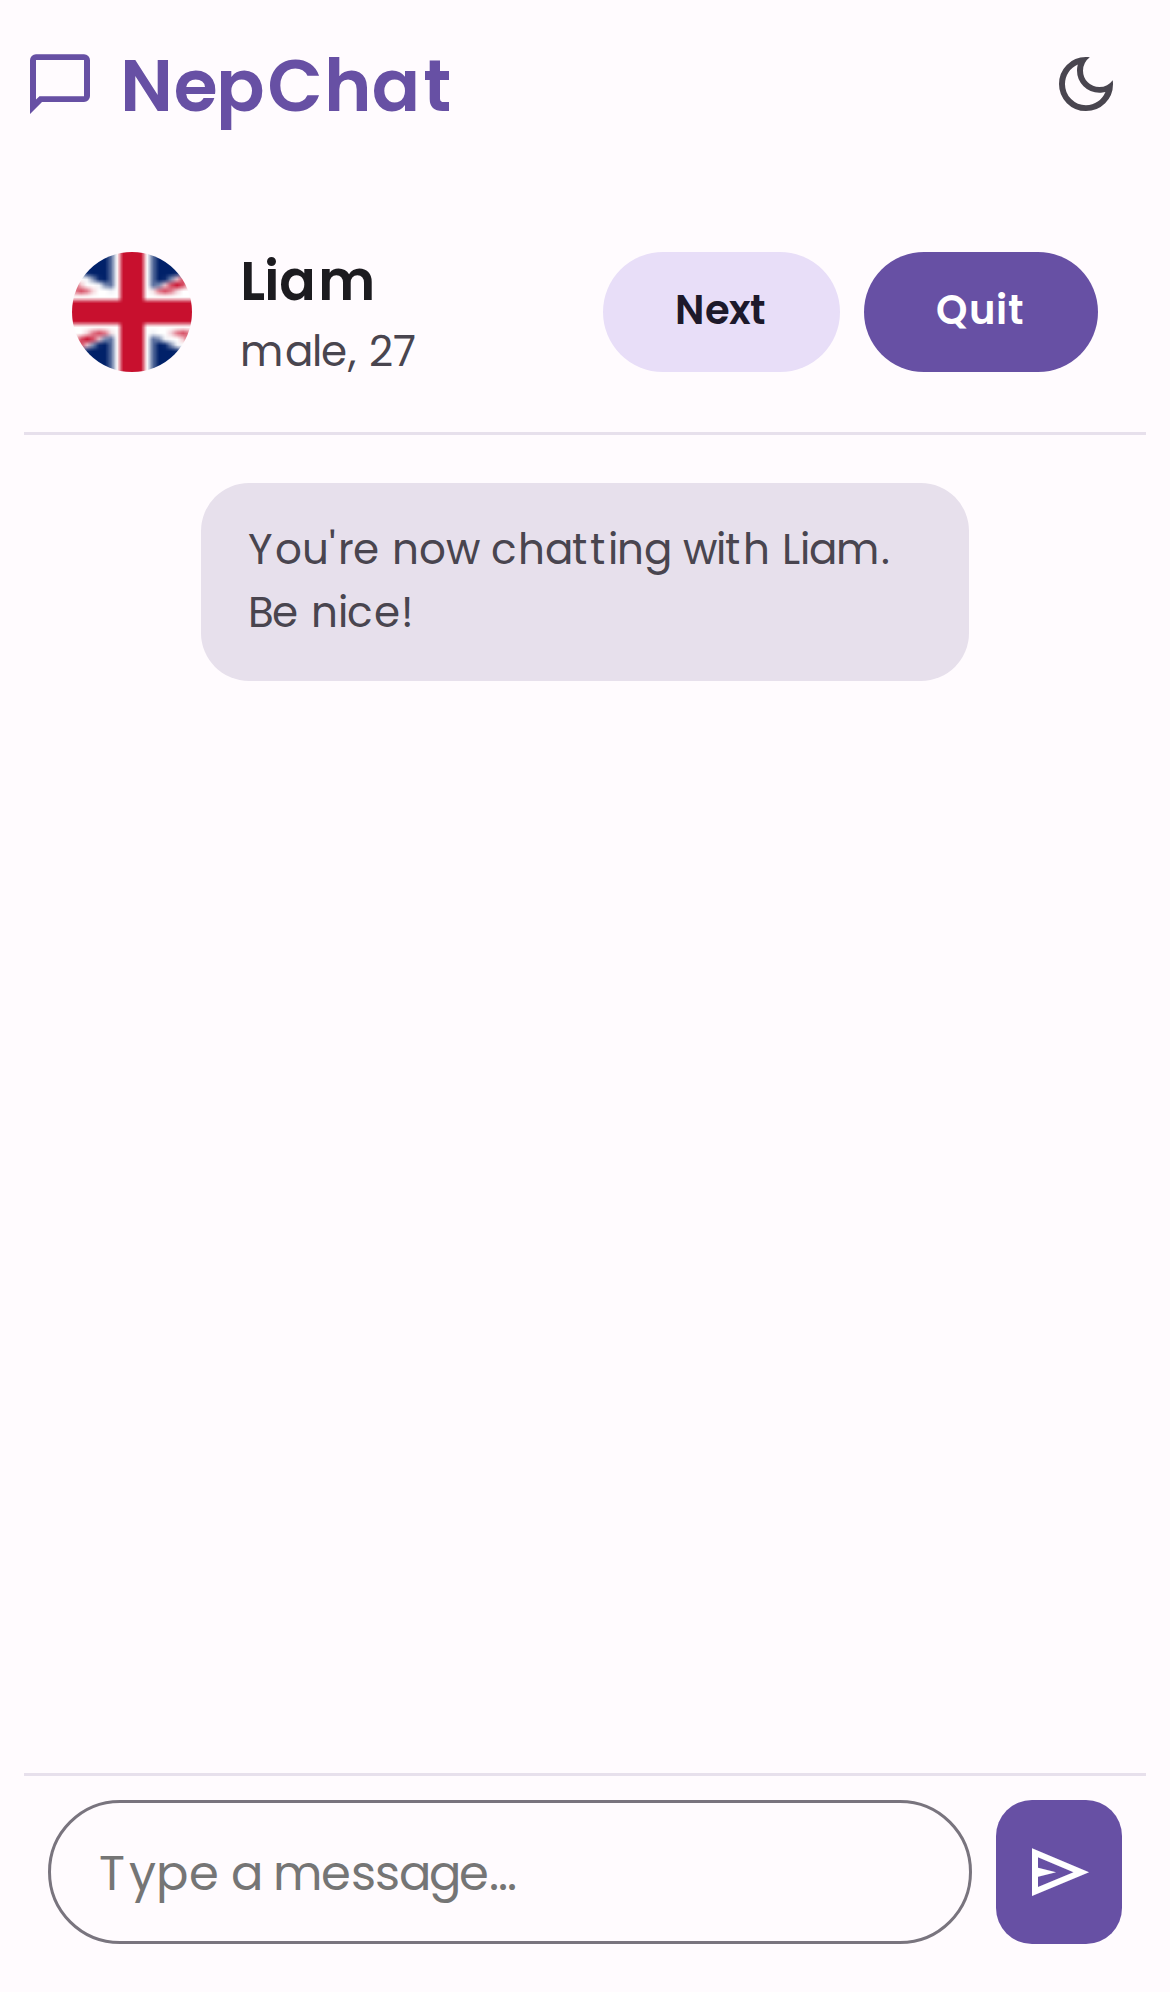
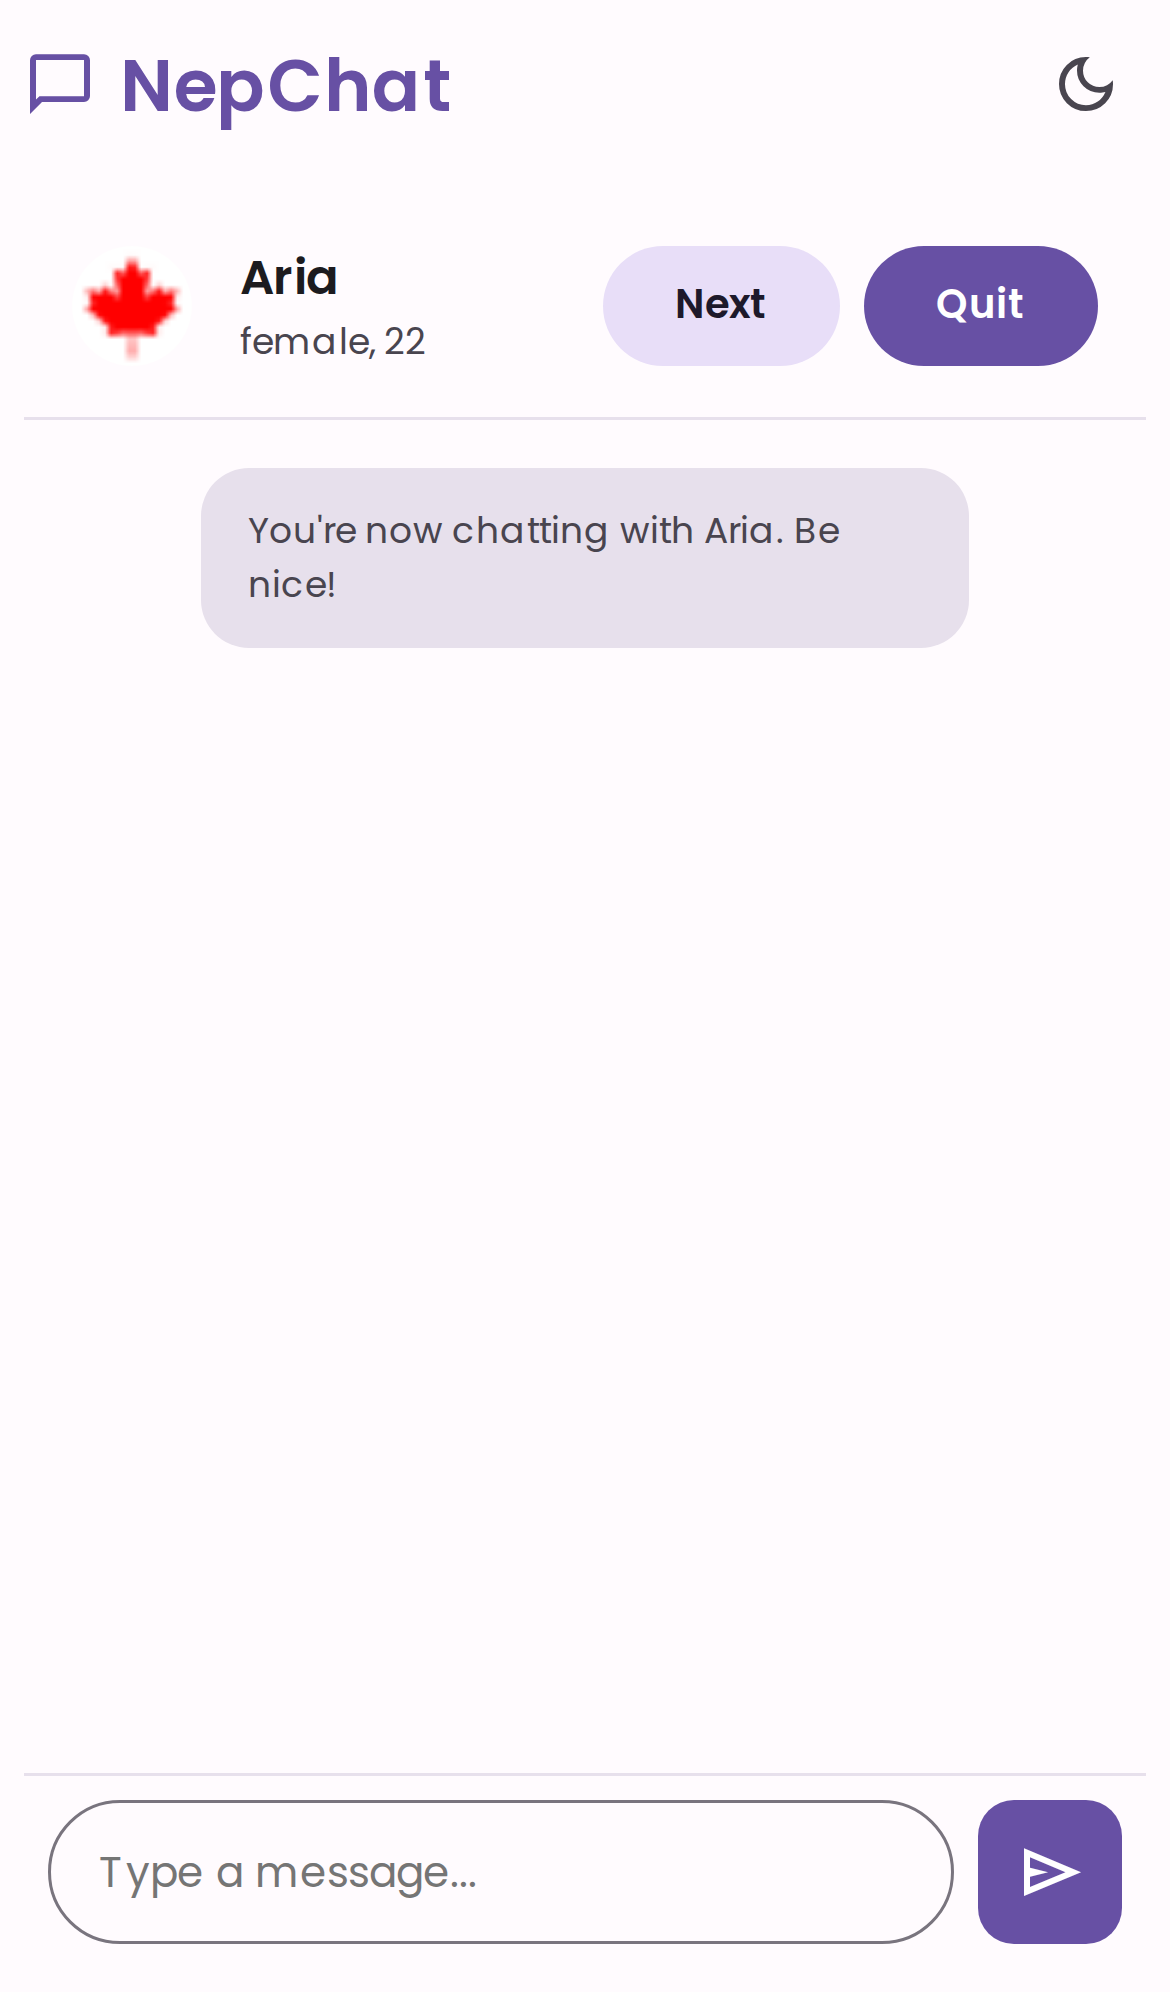
fix(css): Improve chat UI on mobile devices
This commit introduces two key improvements to the chat screen on mobile viewports to enhance user experience and fix layout issues.

1.  **Resolve Chat Input Overflow:**
    Fixes a bug where the chat input area would overflow on narrow screens, hiding the send button. This was caused by the default `min-width: auto` on the input field. The fix involves setting `min-width: 0` on the input and reducing padding in the input area for a more compact layout.

2.  **Adjust Font Sizes:**
    Reduces the font sizes for various elements on the chat page, including the stranger's name, their details, chat messages, and the input field itself. This provides a more balanced and readable interface on smaller screens.

diff --git a/style.css b/style.css
@@ -482,4 +482,19 @@ button {
         padding: 0.5rem;
         gap: 0.5rem;
     }
+    #stranger-name {
+        font-size: 1rem;
+    }
+    #stranger-details {
+        font-size: 0.75rem;
+    }
+    .message {
+        font-size: 0.875rem;
+    }
+    .message.system {
+        font-size: 0.75rem;
+    }
+    #message-input {
+        font-size: 0.875rem;
+    }
 }
